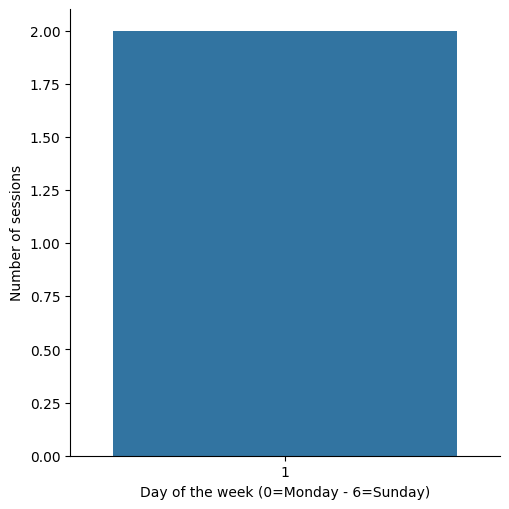
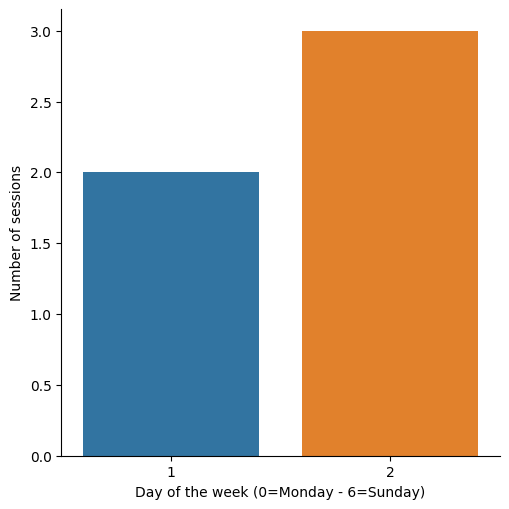
"Stats generated 2021-06-03"

diff --git a/all/2021/6/weekdays/2/index.html b/all/2021/6/weekdays/2/index.html
@@ -1,0 +1,29 @@
+<!DOCTYPE html>
+<html>
+  <head>
+    <meta charset="utf-8"/>
+    <title>Wednesdays June 2021</title>
+    <link rel="stylesheet" href="../../../../../styles.css"/>
+  </head>
+  <body>
+    <div id="container">
+      <nav>
+        <ul>
+          
+            <li><a href="../../">June 2021</a></li>
+            <li class="separator"></li>
+          
+          
+        </ul>
+      </nav>
+      <main>
+        <h1>Wednesdays June 2021</h1>
+        
+          <h2>Number of sessions per hour</h2>
+          <img src="sessions.png" alt="Number of sessions per hour"/>
+        
+        
+      </main>
+    </div>
+  </body>
+</html>

diff --git a/all/2021/6/days/2/index.html b/all/2021/6/days/2/index.html
@@ -1,0 +1,29 @@
+<!DOCTYPE html>
+<html>
+  <head>
+    <meta charset="utf-8"/>
+    <title>2 June 2021</title>
+    <link rel="stylesheet" href="../../../../../styles.css"/>
+  </head>
+  <body>
+    <div id="container">
+      <nav>
+        <ul>
+          
+            <li><a href="../../">June 2021</a></li>
+            <li class="separator"></li>
+          
+          
+        </ul>
+      </nav>
+      <main>
+        <h1>2 June 2021</h1>
+        
+          <h2>Number of sessions per hour</h2>
+          <img src="sessions.png" alt="Number of sessions per hour"/>
+        
+        
+      </main>
+    </div>
+  </body>
+</html>

diff --git a/all/2021/6/index.html b/all/2021/6/index.html
@@ -23,11 +23,19 @@
             
           
             
+              <li><a href="weekdays/2/">Wednesday</a></li>
+            
+          
+            
               <li><span>Day of Month</span></li>
             
           
             
               <li><a href="days/1/">1</a></li>
+            
+          
+            
+              <li><a href="days/2/">2</a></li>
             
           
         </ul>

diff --git a/all/2021/index.html b/all/2021/index.html
@@ -107,9 +107,9 @@
                   
                     <td>6.0</td>
                   
-                    <td>2.0</td>
+                    <td>5.0</td>
                   
-                    <td>33.04051955</td>
+                    <td>60.72579295</td>
                   
                 </tr>
               
